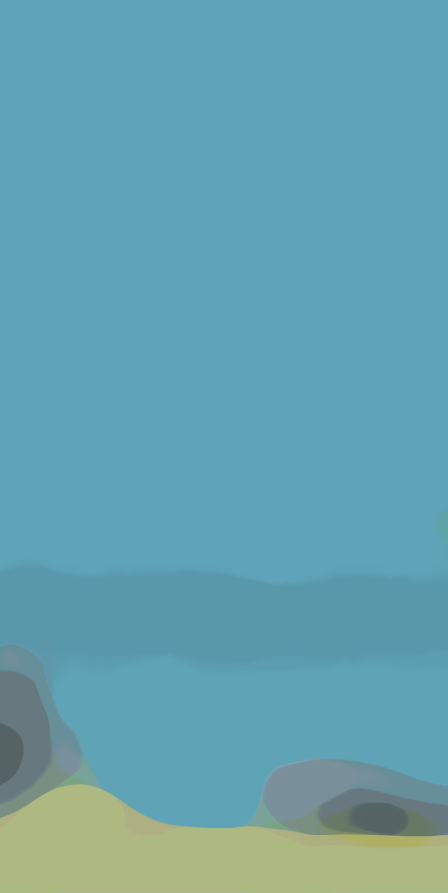
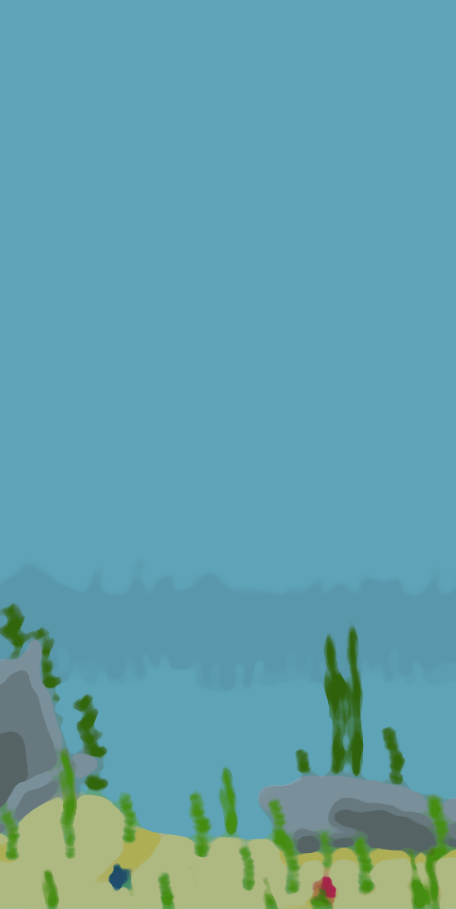
New blurred background image in menu

diff --git a/Assets/Scripts/Player/CharacterSelector.cs b/Assets/Scripts/Player/CharacterSelector.cs
@@ -52,7 +52,6 @@ public class CharacterSelector : MonoBehaviour {
     }
 
     IEnumerator SwipeCharacterOverTime(int characterIndex, float duration, float xOffsetStart, float xOffsetEnd, bool activeAtTheEnd = true) {
-        Debug.Log("START SWIPING");
         GameObject character = ApplicationController.ac.characters[characterIndex].skin;
         float startTime = Time.time;
         float endTime = startTime + duration;
@@ -76,7 +75,6 @@ public class CharacterSelector : MonoBehaviour {
             character.transform.position = startPos;
             character.SetActive(false);
         }
-        Debug.Log("END SWIPING");
     }
 
     public static void DisableAllCharacters() {

diff --git a/README.md b/README.md
@@ -13,7 +13,7 @@
 7. Fill with background color
 
 ### Blured UI background
-Filters > Blur > Median Blur > Radius: 30
+Filters > Blur > Median Blur > Radius: 6
 
 ## Credits
 * "Water Swirl" by InspectorJ of Freesound.org
